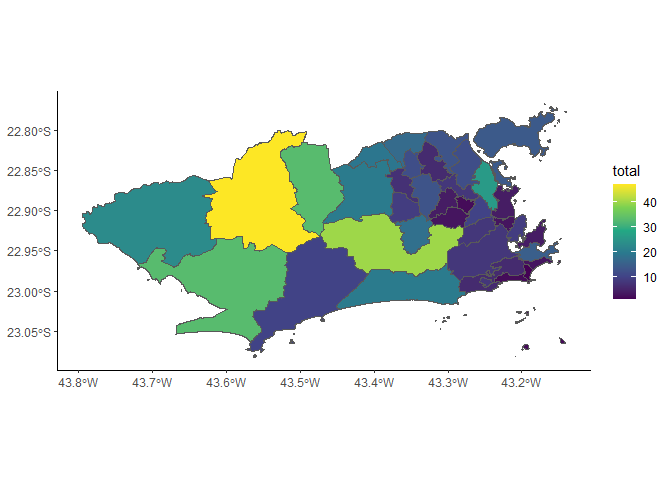
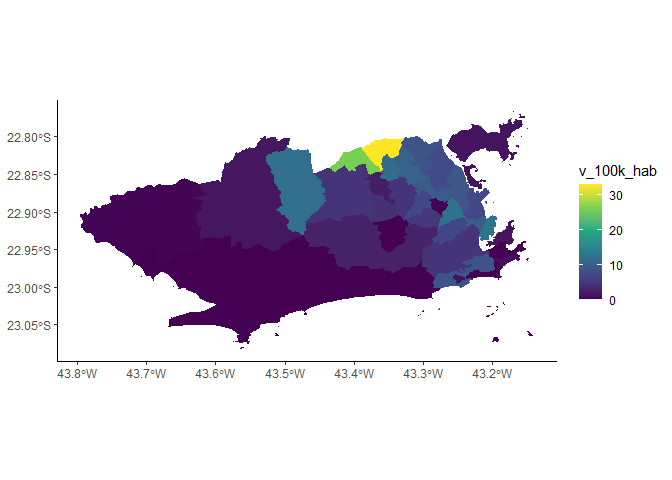
Add functions population and car_fleet

diff --git a/README.md b/README.md
@@ -74,32 +74,36 @@ Dados espaciais vetoriais dos limites das UPPs:
 shape <- spatial_upp
 ```
 
-Exemplo: Quantidade de tentativas de feminicídio de outubro de 2016 até
-dezembro de 2022 por CISP:
+Exemplo: Quantidade homicídios por intervenção policial a cada 100 mil
+habitantes em 2020 por área de delegacia no município do Rio de Janeiro:
 
 ``` r
+
 library(ispdata)
 library(dplyr)
 library(ggplot2)
 library(sf)
 
-df <- crimes_against_life(type = 'femicide') |>
-  group_by(cisp) |>
-  summarise(total = sum(feminicidio_tentativa)) |>
-  left_join(spatial_cisp, by = c("cisp" = "dp")) |>
-  filter(aisp %in% c(27, 40, 31, 14, 18, 41, 9, 6, 23, 3, 16, 22, 4, 17, 19, 2))|>
-  st_as_sf()
+pop <- population(data = 'cisp_yearly')
+
+df <- monthly_stats(by = 'cisp') |> 
+  left_join(spatial_cisp, by = c("cisp" = "dp", "aisp")) |>
+  filter(aisp %in% c(27, 40, 31, 14, 18, 41, 9, 6, 23, 3, 16, 22, 4, 17, 19, 2),
+         ano == '2020') |>
+  group_by(ano, cisp, geometry) |>
+  summarise(hom_por_interv_policial = sum(hom_por_interv_policial)) |>
+  left_join(pop, by = c("cisp" = "circ", "ano")) |>
+  mutate(v_100k_hab = hom_por_interv_policial/pop * 100000) |>
+  st_as_sf() 
+
 
 ggplot() + 
-  geom_sf(data = df, mapping = aes(fill = total)) +
+  geom_sf(data = df, mapping = aes(fill = v_100k_hab), color = NA) +
   theme_classic() +
   scale_fill_viridis_c()
 ```
 
 <img src="man/figures/README-unnamed-chunk-2-1.png" width="100%" />
-
-Em breve serão adicionados dados populacionais no pacote para permitir a
-análise de ocorrências a cada 100 mil habitantes.
 
 ## Citação
 
